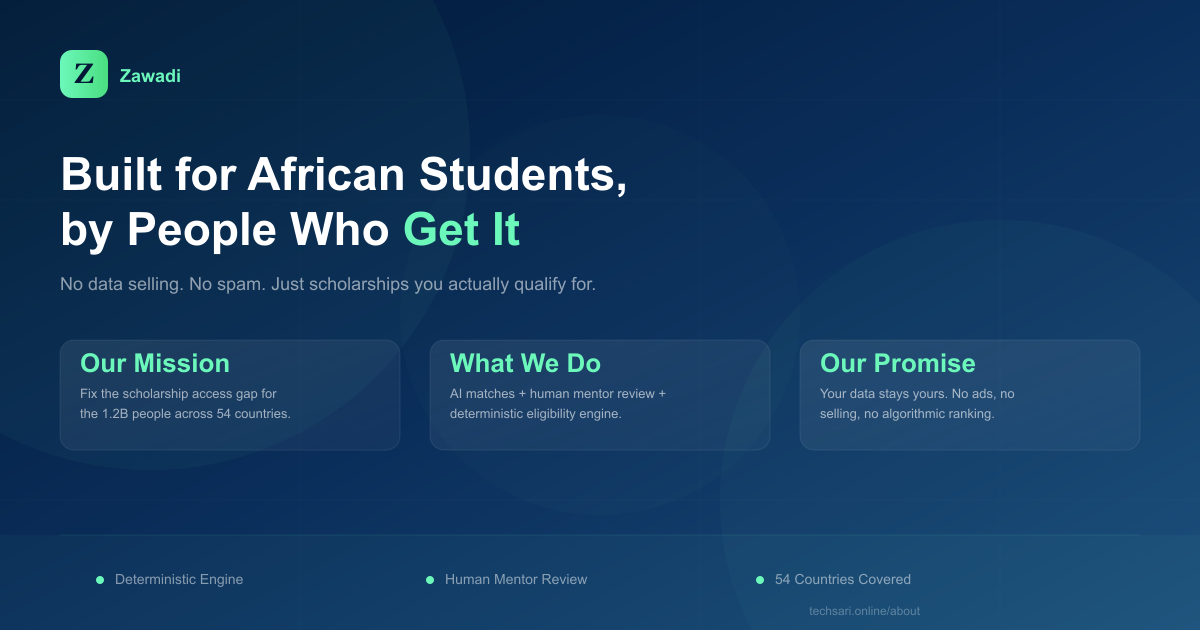
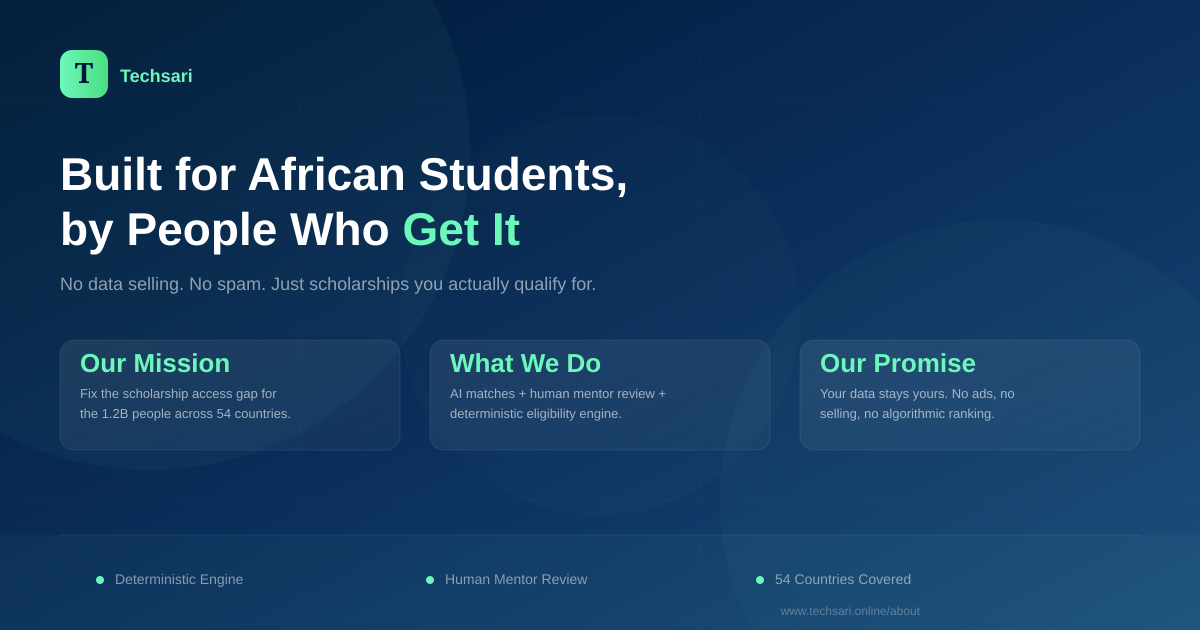
fix(og): update share preview branding and metadata for scholarship links
Replace outdated "Zawadi" branding with "Techsari" across all OG images.
Fix middleware to show actual scholarship details in share previews instead
of generic text. Update static fallback OG tags with current copy.

- Regenerated all 6 OG PNG images from updated SVGs
- Middleware now shows slug-derived title on API failure instead of generic text
- Fixed duplicate "Techsari Techsari" in scholarship detail page title
- Updated SEO component default image to og-home.png

🤖 Generated with Codebuff

diff --git a/middleware.ts b/middleware.ts
@@ -66,17 +66,17 @@ const ROUTE_META: Record<string, RouteMeta> = {
     title: 'Contact Techsari — Get Help or Partner With Us',
     description: 'Contact the Techsari team for student support, scholarship provider listings, institutional partnerships, or press inquiries.',
     image: `${SITE_URL}/og-image.png`,
-    ogTitle: 'Contact Techsari — We\'re Here to Help',
+    ogTitle: "Contact Techsari — We're Here to Help",
     ogDescription: 'Reach out to the Techsari team for student support, institutional partnerships, or scholarship provider inquiries. We respond within 24 hours.',
   },
   '/privacy': {
-    title: 'Privacy Policy — Techsari Techsari',
-    description: 'Techsari Techsari Privacy Policy — how we collect, use, and protect your data as an African student using our scholarship platform.',
+    title: 'Privacy Policy — Techsari',
+    description: 'Techsari Privacy Policy — how we collect, use, and protect your data as an African student using our scholarship platform.',
     image: `${SITE_URL}/og-image.png`,
   },
   '/terms': {
-    title: 'Terms of Service — Techsari Techsari',
-    description: 'Techsari Techsari Terms of Service — the terms governing your use of our AI-powered scholarship platform for African students.',
+    title: 'Terms of Service — Techsari',
+    description: 'Techsari Terms of Service — the terms governing your use of our AI-powered scholarship platform for African students.',
     image: `${SITE_URL}/og-image.png`,
   },
 };
@@ -87,8 +87,9 @@ function getMeta(pathname: string): RouteMeta {
 }
 
 function slugFromPath(pathname: string): string | null {
-  const match = pathname.match(/^\/scholarships\/browse\/([^/]+)$/);
-  return match ? decodeURIComponent(match[1]).slice(0, 100) : null;
+  // Match /scholarships/browse/:slug (with optional trailing slash)
+  const match = pathname.match(/^\/scholarships\/browse\/([^/]+)/);
+  return match ? decodeURIComponent(match[1]).replace(/\/$/, '').slice(0, 100) : null;
 }
 
 function encodeQueryValue(s: string): string {
@@ -120,33 +121,11 @@ function formatDeadlineEdge(dateStr: string): string {
 function buildMetaTags(meta: RouteMeta, url: string): string {
   const title = meta.ogTitle || meta.title;
   const desc = meta.ogDescription || meta.description;
-  return `
-<meta charset="UTF-8" />
-<meta name="viewport" content="width=device-width, initial-scale=1.0" />
-<title>${escapeHtml(meta.title)}</title>
-<meta name="description" content="${escapeHtml(meta.description)}" />
-<meta property="og:type" content="website" />
-<meta property="og:url" content="${escapeHtml(url)}" />
-<meta property="og:title" content="${escapeHtml(title)}" />
-<meta property="og:description" content="${escapeHtml(desc)}" />
-<meta property="og:image" content="${escapeHtml(meta.image)}" />
-<meta property="og:image:width" content="1200" />
-<meta property="og:image:height" content="630" />
-<meta property="og:image:alt" content="${escapeHtml(title)}" />
-<meta property="og:site_name" content="Techsari" />
-<meta property="og:locale" content="en_US" />
-<meta name="twitter:card" content="summary_large_image" />
-<meta name="twitter:title" content="${escapeHtml(title)}" />
-<meta name="twitter:description" content="${escapeHtml(desc)}" />
-<meta name="twitter:image" content="${escapeHtml(meta.image)}" />
-<meta name="twitter:image:alt" content="${escapeHtml(title)}" />
-<meta name="twitter:site" content="@techsari" />
-<meta name="twitter:creator" content="@techsari" />
-`;
+  return `\n<meta charset="UTF-8" />\n<meta name="viewport" content="width=device-width, initial-scale=1.0" />\n<title>${escapeHtml(meta.title)}</title>\n<meta name="description" content="${escapeHtml(meta.description)}" />\n<meta property="og:type" content="website" />\n<meta property="og:url" content="${escapeHtml(url)}" />\n<meta property="og:title" content="${escapeHtml(title)}" />\n<meta property="og:description" content="${escapeHtml(desc)}" />\n<meta property="og:image" content="${escapeHtml(meta.image)}" />\n<meta property="og:image:width" content="1200" />\n<meta property="og:image:height" content="630" />\n<meta property="og:image:alt" content="${escapeHtml(title)}" />\n<meta property="og:site_name" content="Techsari" />\n<meta property="og:locale" content="en_US" />\n<meta name="twitter:card" content="summary_large_image" />\n<meta name="twitter:title" content="${escapeHtml(title)}" />\n<meta name="twitter:description" content="${escapeHtml(desc)}" />\n<meta name="twitter:image" content="${escapeHtml(meta.image)}" />\n<meta name="twitter:image:alt" content="${escapeHtml(title)}" />\n<meta name="twitter:site" content="@techsari" />\n<meta name="twitter:creator" content="@techsari" />\n`;
 }
 
 function escapeHtml(s: string): string {
-  return s.replace(/&/g, '&amp;').replace(/</g, '&lt;').replace(/>/g, '&gt;').replace(/"/g, '&quot;').replace(/'/g, '&#039;');
+  return s.replace(/&/g, '&amp;').replace(/</g, '&lt;').replace(/>/g, '&gt;').replace(/"/g, '&quot;').replace(/'/g, '&#39;');
 }
 
 export const config = {
@@ -212,9 +191,25 @@ export default async function middleware(request: Request): Promise<Response> {
             ogTitle: data.name,
             ogDescription: seoDesc.slice(0, 200),
           };
+        } else {
+          // API returned non-200 — use a scholarship-aware fallback
+          meta = {
+            title: `${slug.replace(/-/g, ' ')} | Techsari`,
+            description: `Browse this scholarship opportunity on Techsari. Find verified scholarships for African students with strict eligibility matching.`,
+            image: `${SITE_URL}/og-scholarships.png`,
+            ogTitle: `${slug.replace(/-/g, ' ')} | Techsari`,
+            ogDescription: `View this scholarship on Techsari — verified opportunities for African students with eligibility matching.`,
+          };
         }
       } catch {
-        // fall back to generic meta
+        // API fetch failed — use a scholarship-aware fallback
+        meta = {
+          title: `${slug.replace(/-/g, ' ')} | Techsari`,
+          description: `Browse this scholarship opportunity on Techsari. Find verified scholarships for African students with strict eligibility matching.`,
+          image: `${SITE_URL}/og-scholarships.png`,
+          ogTitle: `${slug.replace(/-/g, ' ')} | Techsari`,
+          ogDescription: `View this scholarship on Techsari — verified opportunities for African students with eligibility matching.`,
+        };
       }
     }
 

diff --git a/index.html b/index.html
@@ -3,6 +3,7 @@
   <head>
     <meta charset="UTF-8" />
     <meta name="viewport" content="width=device-width, initial-scale=1.0" />
+    <meta http-equiv="Content-Security-Policy" content="default-src 'self'; script-src 'self' https://*.supabase.co https://js.paystack.com https://www.google-analytics.com; style-src 'self' https://fonts.googleapis.com; font-src 'self' https://fonts.gstatic.com; img-src 'self' data: blob: https://*.supabase.co; connect-src 'self' https://*.supabase.co https://js.paystack.com https://www.google-analytics.com; worker-src 'self' blob:; frame-src https://js.paystack.com https://www.googletagmanager.com; base-uri 'self'; form-action 'self'; object-src 'none'; upgrade-insecure-requests" />
     <title>Techsari — Scholarship Matching for African Students</title>
     <link rel="canonical" href="https://www.techsari.online/" />
     <meta name="description" content="Stop searching global spam. Discover daily-updated, 100% eligible African scholarships, track deadlines, and write winning essays with our AI Studio." />
@@ -23,8 +24,8 @@
     <!-- Static fallback OG tags — used by crawlers that don't execute JS -->
     <meta property="og:type" content="website" />
     <meta property="og:url" content="https://www.techsari.online" />
-    <meta property="og:title" content="Techsari — AI Scholarship Matching for African Students" />
-    <meta property="og:description" content="Find scholarships you're 100% eligible for. Built exclusively for African students." />
+    <meta property="og:title" content="Techsari — Find Scholarships You Actually Qualify For" />
+    <meta property="og:description" content="Strict eligibility matching for African students. See only scholarships where you meet every requirement. No spam. No data selling. No IELTS barrier." />
     <meta property="og:image" content="https://www.techsari.online/og-home.png" />
     <meta property="og:image:width" content="1200" />
     <meta property="og:image:height" content="630" />
@@ -32,8 +33,8 @@
     <meta property="og:site_name" content="Techsari" />
     <meta property="og:locale" content="en_US" />
     <meta name="twitter:card" content="summary_large_image" />
-    <meta name="twitter:title" content="Techsari — AI Scholarship Matching for African Students" />
-    <meta name="twitter:description" content="Find scholarships you're 100% eligible for. Built exclusively for African students." />
+    <meta name="twitter:title" content="Techsari — Find Scholarships You Actually Qualify For" />
+    <meta name="twitter:description" content="Strict eligibility matching for African students. See only scholarships where you meet every requirement. No spam. No data selling. No IELTS barrier." />
     <meta name="twitter:image" content="https://www.techsari.online/og-home.png" />
     <meta name="twitter:image:alt" content="Techsari — Scholarship Matching for African Students" />
     <meta name="twitter:site" content="@techsari" />

diff --git a/src/pages/public/PublicScholarshipDetail.tsx b/src/pages/public/PublicScholarshipDetail.tsx
@@ -246,7 +246,7 @@ export default function PublicScholarshipDetail({ user }: PublicScholarshipDetai
   return (
     <div className="min-h-[100dvh] bg-surface-container-lowest text-on-surface font-body antialiased flex flex-col justify-between">
       <SEO
-        title={`${scholarship.name} | Techsari Techsari`}
+        title={`${scholarship.name} | Techsari`}
         description={seoDesc}
         path={`/scholarships/browse/${scholarship.slug || scholarship.id}`}
         image={ogImageUrl}

diff --git a/src/components/SEO.tsx b/src/components/SEO.tsx
@@ -2,7 +2,7 @@ import type { ReactNode } from 'react';
 import { Helmet } from 'react-helmet-async';
 
 const SITE_URL = 'https://www.techsari.online';
-const OG_IMAGE = 'https://www.techsari.online/og-image.png';
+const OG_IMAGE = 'https://www.techsari.online/og-home.png';
 const TWITTER_HANDLE = '@techsari';
 
 interface SEOMeta {
